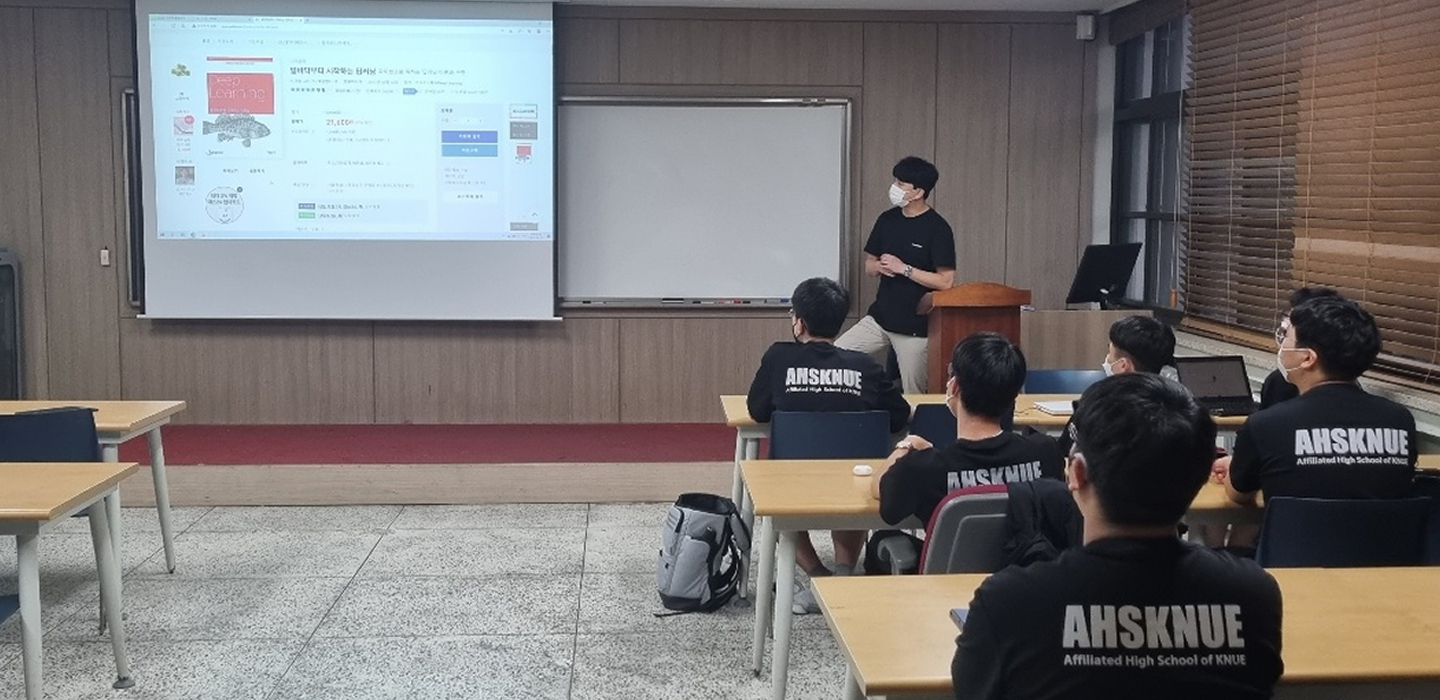
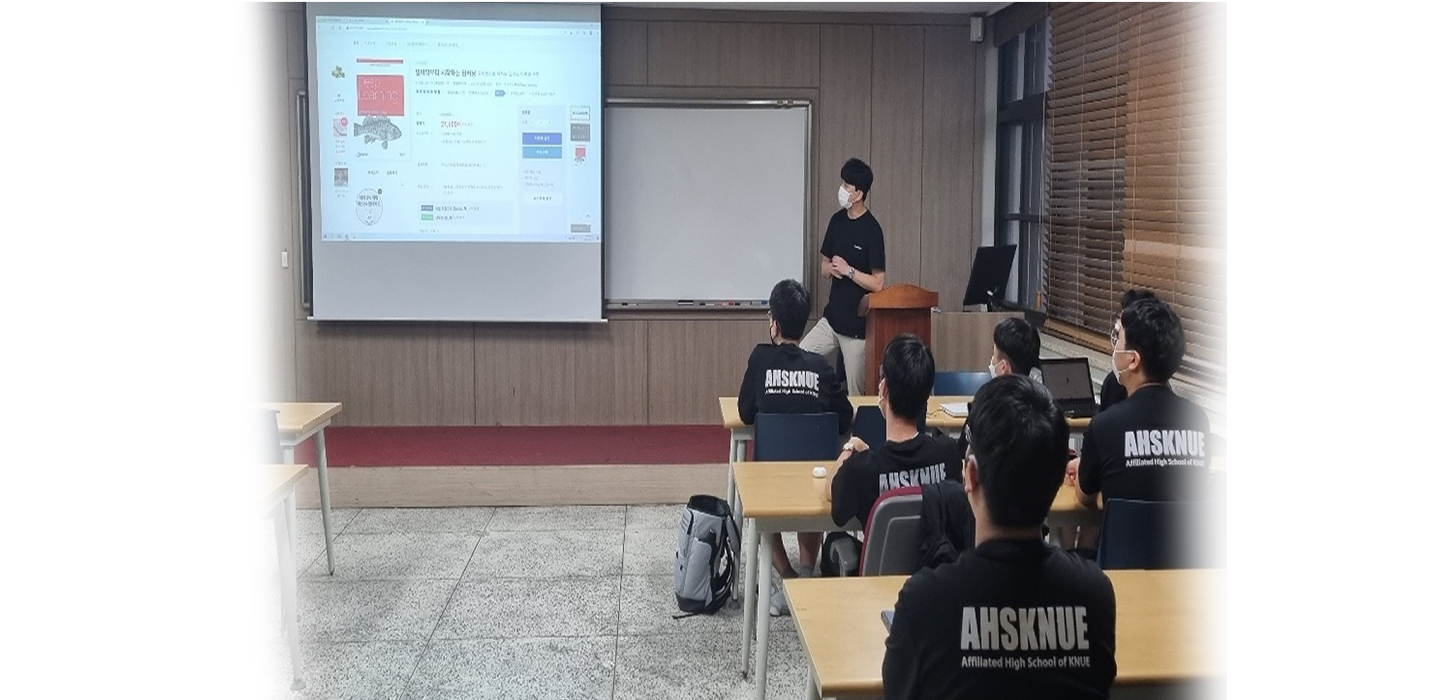
슬라이드 수정

diff --git a/index.css b/index.css
@@ -61,32 +61,6 @@ ul.imgs li{
   transition-delay: 0.9s;
 }
 
-.main_bannerr input[type=radio]:nth-child(1):checked~.bullets>label:nth-child(1){
-  background-color: #fff;
-}
-.main_banner input[type=radio]:nth-child(2):checked~.bullets>label:nth-child(2){
-  background-color: #fff;
-}
-.main_banner input[type=radio]:nth-child(3):checked~.bullets>label:nth-child(3){
-  background-color: #fff;
-}
-
-.main_banner input[type=radio]:nth-child(1):checked~ul.imgs>li:nth-child(1){
-  opacity: 1;
-  transition: 1s;
-  z-index: 1;
-}
-.main_banner input[type=radio]:nth-child(2):checked~ul.imgs>li:nth-child(2){
-  opacity: 1;
-  transition: 1s;
-  z-index: 1;
-}
-.main_banner input[type=radio]:nth-child(3):checked~ul.imgs>li:nth-child(3){
-  opacity: 1;
-  transition: 1s;
-  z-index: 1;
-}
-
 #book_area{
   text-align: center;
 }

diff --git a/index.html b/index.html
@@ -25,7 +25,7 @@
     <div class="owl-carousel owl-theme">
       <div class="main_banner owl-carousel owl-theme">
         <div class="item first">
-          <li><img src="image/신성빈 발표.jpg" width="100%" height="100%" ></li>
+          <li><img src="image/신성빈 발표.jpg"  height="100%" ></li>
         </div>
         <div class="item second">
           <li><img src="image/인공지능 특강.jpg" width="100%" height="100%"></li>
